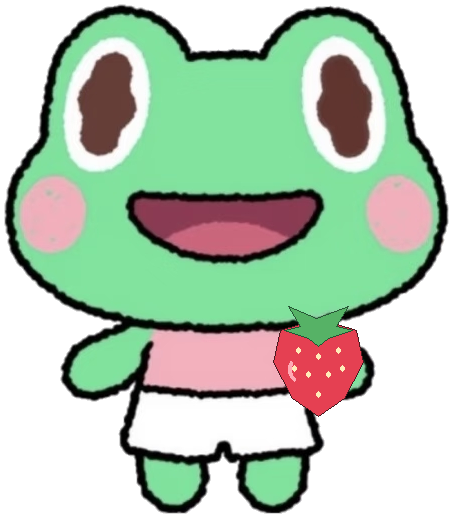
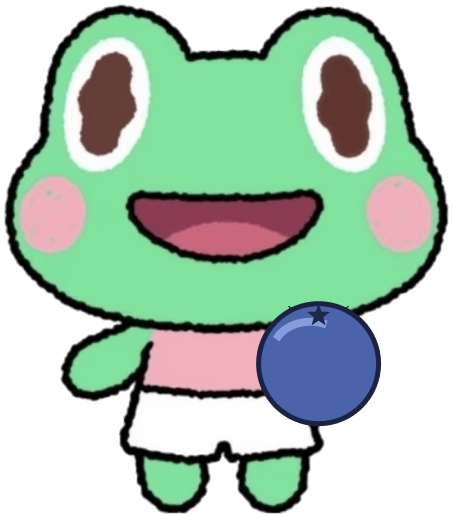
feat: feed blueberries instead of strawberries

Changed region(s): [[0.5563, 0.5603, 0.8653, 0.8405]]

diff --git a/main.js b/main.js
@@ -92,9 +92,7 @@ const petLines = {
 };
 
 const feedLines = [
-  '是姐姐给的草莓！嘤嘤～',
-  '谢谢姐姐投喂～',
-  '姐姐喂的最好吃。',
+  '🎵I hate it ～but I love it～🎵',
 ];
 const veggieLines = [
   '小虫！嘤嘤，谢谢姐姐！',
@@ -912,7 +910,7 @@ function idleBehavior() {
     } else if (r < d + 0.44) {
       express('confused', { speech: '嗯？姐姐你在忙吗？', effect: 'question', hold: 2600 });
     } else if (r < d + 0.5) {
-      express('hot', { speech: '好热……姐姐，我想吃草莓。', effect: 'sweat', hold: 2600 });
+      express('hot', { speech: '好热……姐姐，我想吃蓝莓。', effect: 'sweat', hold: 2600 });
     } else if (r < d + 0.56) {
       express('cuddle', { speech: '姐姐陪我待一会儿吧。', effect: 'hearts', hold: 3000 });
     } else if (r < d + 0.62) {
@@ -1125,7 +1123,7 @@ function buildTrayMenu() {
     { label: win && win.isVisible() ? '隐藏花东' : '显示花东', click: toggleShow },
     { type: 'separator' },
     { label: '摸摸头', click: () => { ensureVisible(); petClick(true); } },
-    { label: '喂草莓', click: feed },
+    { label: '喂蓝莓', click: feed },
     { label: '喂小虫', click: feedVeggies },
     { label: mode === 'sleep' ? '叫醒它' : '睡一觉', click: toggleSleep },
     { label: '去散步', click: () => { ensureVisible(); startWalk(); } },

diff --git a/index.html b/index.html
@@ -34,7 +34,7 @@
 
     <div id="menu" class="menu" hidden>
       <button class="item" data-action="pet"><span>摸摸头</span></button>
-      <button class="item" data-action="feed"><span>喂草莓</span></button>
+      <button class="item" data-action="feed"><span>喂蓝莓</span></button>
       <button class="item" data-action="feed-veggies"><span>喂小虫</span></button>
       <button class="item" data-action="sleep"><span id="sleep-label">睡一觉</span></button>
       <button class="item" data-action="walk"><span>去散步</span></button>

diff --git a/scripts/prepare_assets.py b/scripts/prepare_assets.py
@@ -1,4 +1,5 @@
 import json
+import math
 import os
 
 import cv2
@@ -280,37 +281,31 @@ def shy_blush(im):
             )
 
 
-def strawberry(im):
+def blueberry(im):
     draw = ImageDraw.Draw(im)
-    cx, cy = 318, 352
-    body = [
-        (cx - 38, cy - 22), (cx - 45, cy + 10), (cx - 26, cy + 46),
-        (cx, cy + 64), (cx + 26, cy + 46), (cx + 45, cy + 10),
-        (cx + 38, cy - 22), (cx, cy - 34),
-    ]
-    draw.polygon(body, fill=(229, 64, 82, 255), outline=(75, 26, 32, 255))
-    leaves = [
-        (cx - 2, cy - 34), (cx - 30, cy - 46), (cx - 18, cy - 26),
-        (cx - 34, cy - 22), (cx - 10, cy - 14), (cx, cy - 6),
-        (cx + 10, cy - 14), (cx + 34, cy - 22), (cx + 18, cy - 26),
-        (cx + 30, cy - 46),
-    ]
-    draw.polygon(leaves, fill=(86, 178, 102, 255), outline=(38, 86, 52, 255))
-    for sx, sy in [
-        (-20, -2), (0, 4), (20, -2), (-10, 22), (10, 22),
-        (0, 42), (-24, 16), (24, 16),
-    ]:
-        draw.ellipse(
-            (cx + sx - 2, cy + sy - 3, cx + sx + 2, cy + sy + 3),
-            fill=(255, 236, 185, 255),
-        )
-    draw.arc(
-        (cx - 30, cy + 4, cx - 10, cy + 30),
-        110,
-        220,
-        fill=(255, 170, 180, 255),
-        width=4,
+    cx, cy = 318, 363
+    r = 60
+    draw.ellipse(
+        (cx - r, cy - r, cx + r, cy + r),
+        fill=(74, 99, 171, 255),
+        outline=(28, 34, 66, 255),
+        width=5,
     )
+    draw.arc(
+        (cx - r + 14, cy - r + 18, cx + r - 30, cy + r - 42),
+        200,
+        300,
+        fill=(132, 158, 220, 255),
+        width=8,
+    )
+    crown = []
+    for i in range(10):
+        radius = 12 if i % 2 == 0 else 5
+        angle = -math.pi / 2 + i * math.pi / 5
+        crown.append(
+            (cx + radius * math.cos(angle), cy - r + 12 + radius * math.sin(angle))
+        )
+    draw.polygon(crown, fill=(30, 38, 76, 255))
 
 
 def save(im, name, previews):
@@ -384,7 +379,7 @@ def main():
     save(im, "surprised", images)
 
     im = front_im.copy()
-    strawberry(im)
+    blueberry(im)
     save(im, "snack", images)
 
     save(dark_im, "back", images)
